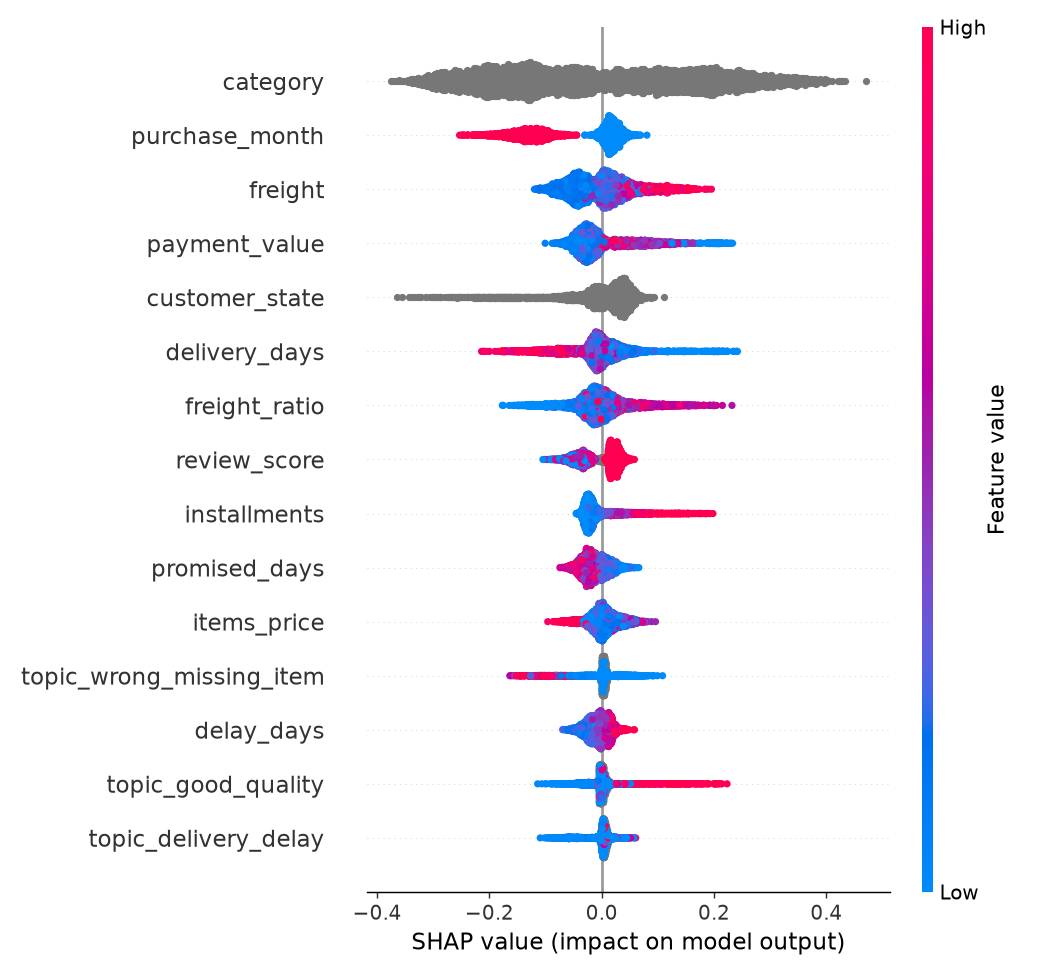
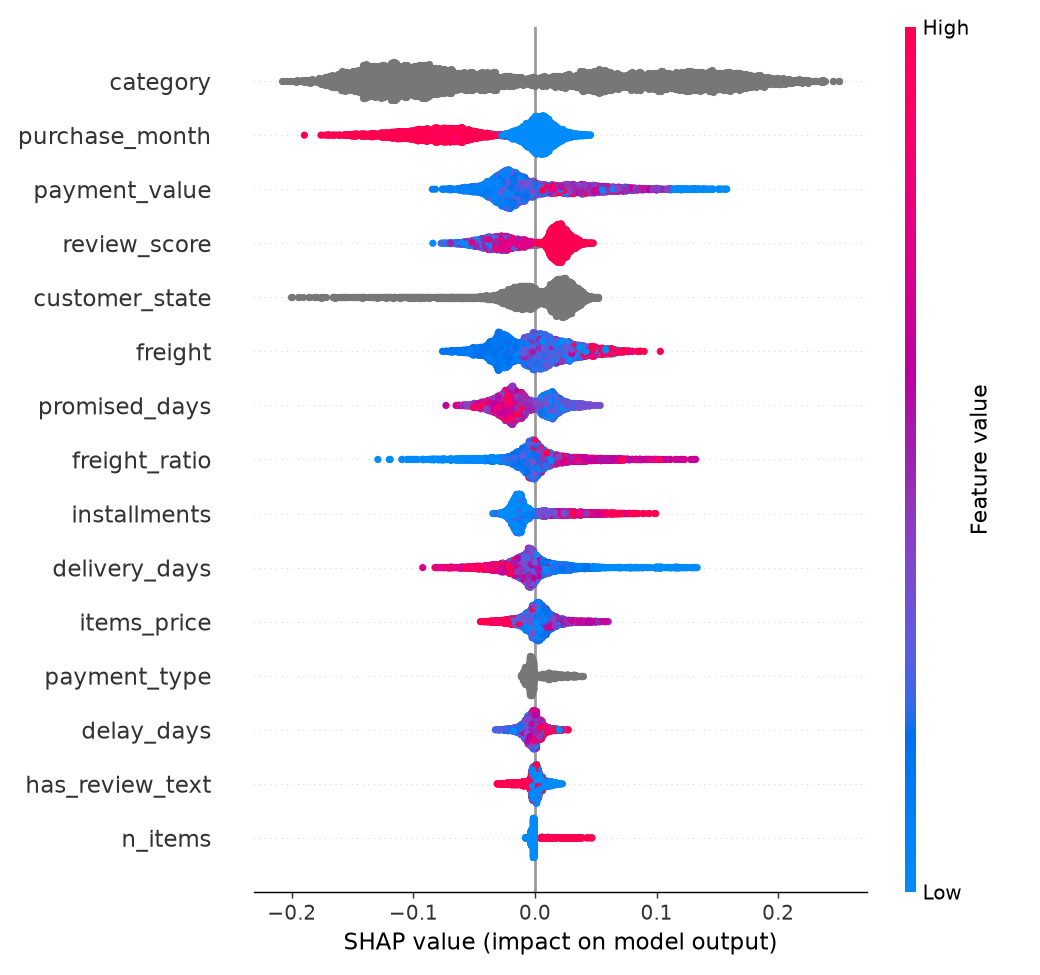
Final review: select best retention model, accurate labels and numbers, generic LLM naming
- Retention: keep the variant with the best test ROC-AUC as the final model (was the last one)
  and refresh SHAP, gains and metrics
- Describe gold and silver labels accurately as LLM-annotated, held out from training
- Dashboard: compute review counts, return rate, topic score and seller comparison from artifacts
  instead of hard-coded text
- LLM client: model id comes from LLM_MODEL; provider-neutral wording in docs and config
- Small cleanups (byte-order mark, blank lines, duplicate import)

diff --git a/app/dashboard.py b/app/dashboard.py
@@ -54,6 +54,8 @@ PLAIN_TOPIC = {
     "good_quality": "Good quality", "praise_recommend": "Happy, would recommend",
 }
 COMPLAINTS = ["wrong_missing_item", "defect_quality", "support_refund", "delivery_delay", "not_received"]
+RETURN_RATE = f"{eda.get('repurchase_rate_180d', 0) * 100:.1f} in 100"
+N_TEXT_REVIEWS = eda.get("n_text_reviews_clean", 0)
 
 T.brand()
 tabs = st.tabs(["Overview", "Customer groups", "Who comes back", "What customers say",
@@ -63,13 +65,13 @@ tabs = st.tabs(["Overview", "Customer groups", "Who comes back", "What customers
 with tabs[0]:
     one_time = eda.get("share_one_time_customers", 0.97)
     T.hero(f"{round(one_time * 100)} out of 100 customers buy only once.",
-           "We read 34,000 customer reviews and 96,000 orders from a Brazilian online marketplace "
+           f"We read {N_TEXT_REVIEWS / 1000:.0f},000 customer reviews and {eda.get('n_orders', 0) / 1000:.0f},000 orders from a Brazilian online marketplace "
            "to find out why, and who to help first.")
     c = st.columns(4)
     with c[0]:
         T.card("Customers", f"{eda.get('n_customers', 0):,}", "bought between 2016 and 2018")
     with c[1]:
-        T.card("Come back", f"{eda.get('repurchase_rate_180d', 0) * 100:.1f} in 100", "order again within 7 months", T.RED)
+        T.card("Come back", RETURN_RATE, "order again within 7 months", T.RED)
     with c[2]:
         T.card("Parcels late", f"{eda.get('late_delivery_rate', 0) * 100:.0f}%", "arrive after the promised date", T.AMBER)
     with c[3]:
@@ -102,9 +104,11 @@ with tabs[0]:
     with a[0]:
         T.action(1, f"Call {n_high:,} customers first", "The most upset ones: their order never came, nobody answered, or they spent a lot.")
     with a[1]:
-        T.action(2, f"Check {len(hot) if hot is not None else 0} sellers", "They get about twice as many complaints as an average seller.")
+        worst = float(hot["complaint_rate_vs_platform"].max()) if hot is not None else 0
+        T.action(2, f"Check {len(hot) if hot is not None else 0} sellers",
+                 f"Their customers complain more than average, up to {worst:.1f} times as often.")
     with a[2]:
-        T.action(3, "Plan for big sales", "On Black Friday 2017, 'my order never came' complaints tripled.")
+        T.action(3, "Plan for big sales", "On Black Friday 2017, 'my order never came' complaints nearly tripled.")
 
     with st.expander("Technical details"):
         coh = load_csv("cohort_retention.csv", index_col=0)
@@ -129,7 +133,7 @@ PLAIN_SEG = {
     "Loyal Repeat Buyers": "Loyal, buy again and again",
 }
 with tabs[1]:
-    T.hero("Our customers fall into 5 simple groups.",
+    T.hero(f"Our customers fall into {len(seg) if seg is not None else 5} simple groups.",
            "Grouped by when they bought, how much they spent, how often, and how their first order went.")
     if seg is not None:
         seg = seg.sort_values("size", ascending=False)
@@ -154,7 +158,7 @@ with tabs[1]:
 # =================================================================== Who comes back
 with tabs[2]:
     T.hero("Coming back is rare, and hard to predict.",
-           "Only about 1.5 in 100 customers order again. Our model still finds the likely ones faster than guessing.")
+           f"Only {RETURN_RATE} customers order again. Our model still finds the likely ones faster than guessing.")
     gains = load_json("gains.json")
     left, right = st.columns([1.4, 1])
     with left:
@@ -200,11 +204,15 @@ with tabs[2]:
 with tabs[3]:
     T.hero("We read every review automatically.",
            "A language model trained on Portuguese reviews sorts each one into topics, and warns us when a problem suddenly grows.")
+    nlp_cmp = load_csv("nlp_comparison.csv")
+    f1_model = float(nlp_cmp["topic_macro_f1"].iloc[-1]) if nlp_cmp is not None else 0
+    f1_rules = float(nlp_cmp["topic_macro_f1"].iloc[0]) if nlp_cmp is not None else 0
     c = st.columns(3)
     with c[0]:
-        T.card("Reviews read", "34,340", "in Portuguese, 2016–2018")
+        T.card("Reviews read", f"{N_TEXT_REVIEWS:,}", "in Portuguese, 2016–2018")
     with c[1]:
-        T.card("Reads them correctly", "83%", "vs 64% with simple keyword rules", T.TEAL)
+        T.card("Topic score", f"{f1_model * 100:.0f} / 100",
+               f"F1 on 250 held-out reviews; simple keyword rules: {f1_rules * 100:.0f}", T.TEAL)
     with c[2]:
         T.card("Problem warnings", f"{len(hist)}", "would have been sent, month by month", T.AMBER)
     st.write("")
@@ -244,9 +252,8 @@ with tabs[3]:
             st.caption("Reviews are in Portuguese. Key words: " + ", ".join(cl["keywords"][:6]))
 
     with st.expander("Technical details"):
-        nlp = load_csv("nlp_comparison.csv")
-        if nlp is not None:
-            st.dataframe(nlp.set_index("model"), width="stretch")
+        if nlp_cmp is not None:
+            st.dataframe(nlp_cmp.set_index("model"), width="stretch")
         st.dataframe(pd.DataFrame(hist), width="stretch", hide_index=True)
 
 # =================================================================== Sellers and cost
@@ -315,7 +322,7 @@ with tabs[5]:
         ev = load_csv("retrieval_eval.csv", index_col=0)
         if ev is not None:
             st.dataframe(ev, width="stretch")
-            st.caption("Hybrid search (BM25 + multilingual embeddings) on 16 queries with hand-labelled relevance.")
+            st.caption("Hybrid search (BM25 + multilingual embeddings) on 16 queries; relevance comes from the 250 gold reviews' topic labels.")
 
 # =================================================================== Who to help first
 with tabs[6]:

diff --git a/src/churnsight/llm/client.py b/src/churnsight/llm/client.py
@@ -1,8 +1,8 @@
 """Thin wrapper around the Anthropic Messages API.
 
-- LLM_PROVIDER=anthropic -> live calls via the official SDK (credentials: ANTHROPIC_API_KEY or an
-  `ant auth login` profile). LLM_PROVIDER=none (default) -> callers fall back to cached outputs,
-  so the dashboard and tests run without any key.
+- LLM_PROVIDER=anthropic -> live calls via the official SDK (needs ANTHROPIC_API_KEY and LLM_MODEL).
+  LLM_PROVIDER=none (default) -> callers fall back to cached outputs, so the dashboard and tests
+  run without any key.
 - Structured outputs (output_config.format json_schema) guarantee parseable JSON.
 - Server-side refusal fallback is enabled; refusals are surfaced as LLMRefusal.
 - The system prompt is marked for prompt caching (stable prefix, reused across many calls).
@@ -20,7 +20,6 @@ from churnsight.config import ROOT
 
 load_dotenv(ROOT / ".env")
 
-DEFAULT_MODEL = ""
 FALLBACK_BETA = "server-side-fallback-2026-07-01"
 
 
@@ -37,11 +36,11 @@ def provider() -> str:
 
 
 def model() -> str:
-    return os.getenv("LLM_MODEL", "").strip() or DEFAULT_MODEL
+    return os.getenv("LLM_MODEL", "").strip()
 
 
 def available() -> bool:
-    if provider() != "anthropic":
+    if provider() != "anthropic" or not model():
         return False
     try:
         import anthropic  # noqa: F401
@@ -56,7 +55,7 @@ _client = None
 def _get_client():
     global _client
     if not available():
-        raise LLMUnavailable("Set LLM_PROVIDER=anthropic (and credentials) to enable live LLM calls.")
+        raise LLMUnavailable("Set LLM_PROVIDER=anthropic, LLM_MODEL and ANTHROPIC_API_KEY to enable live LLM calls.")
     if _client is None:
         import anthropic
 

diff --git a/src/churnsight/rag/evaluate.py b/src/churnsight/rag/evaluate.py
@@ -1,6 +1,6 @@
 """Retrieval evaluation with exact relevance labels.
 
-The corpus is the 250 hand-labelled gold reviews, so for every query we know exactly which
+The corpus is the 250 gold reviews (LLM-annotated, held out from training), so for every query we know exactly which
 documents are relevant (those carrying the query's topic). Each topic gets one English and one
 Portuguese query, which also tests cross-lingual retrieval (English question -> Portuguese review).
 
@@ -95,7 +95,7 @@ def main() -> None:
     summary = summary.join(by_lang.add_prefix("ndcg@10_"))
     summary.to_csv(ARTIFACTS / "retrieval_eval.csv")
     (ARTIFACTS / "retrieval_eval.json").write_text(encoding="utf-8", data=
-        json.dumps({"corpus": "250 hand-labelled gold reviews", "n_queries": len(df) // len(configs),
+        json.dumps({"corpus": "250 gold reviews (LLM-annotated)", "n_queries": len(df) // len(configs),
                     "summary": summary.reset_index().to_dict(orient="records")}, indent=2)
     )
     print(summary.to_string())

diff --git a/src/churnsight/analytics/impact.py b/src/churnsight/analytics/impact.py
@@ -23,8 +23,6 @@ from churnsight.config import ARTIFACTS, PREDICTION_DAY, PROCESSED, RANDOM_SEED,
 from churnsight.nlp.weak_labels import TOPICS, topic_thresholds
 
 
-
-
 def _topic_flags(nlp: pd.DataFrame) -> pd.DataFrame:
     flags = nlp[["review_id"]].copy()
     th = topic_thresholds()
@@ -112,7 +110,7 @@ def trends_and_alerts(reviews: pd.DataFrame, flags: pd.DataFrame, lookback: int 
     monthly["n_reviews"] = r.groupby("order_month").size()
     complaints = ["delivery_delay", "not_received", "defect_quality", "wrong_missing_item", "support_refund"]
     alerts = detect_spikes(monthly[complaints], lookback, z_thresh)
-    # Backtest: what would the weekly report have flagged at the end of each past month?
+    # Backtest: what would a monthly check have flagged at the end of each past month?
     history = []
     for i in range(lookback + 1, len(monthly) + 1):
         history += detect_spikes(monthly[complaints].iloc[:i], lookback, z_thresh)

diff --git a/src/churnsight/analytics/churn.py b/src/churnsight/analytics/churn.py
@@ -154,11 +154,13 @@ def main() -> None:
     if nlp_cols:
         variants["C. + review NLP (topics, sentiment)"] = ORDER_FEATURES + REVIEW_SCORE_FEATURES + nlp_cols
 
-    rows, best = [], None
+    # Keep the variant with the best test ROC-AUC as the final model (scores, SHAP, gains).
+    rows, best, best_auc = [], None, -1.0
     for name, feats in variants.items():
         model, p, m = fit_eval(train, test, feats)
         rows.append({"variant": name, "n_features": len(feats), **m})
-        best = (name, model, feats, p)
+        if m["roc_auc"] > best_auc:
+            best, best_auc = (name, model, feats, p), m["roc_auc"]
         print(name, m)
     ablation = pd.DataFrame(rows)
     ablation.to_csv(ARTIFACTS / "churn_ablation.csv", index=False)

diff --git a/src/churnsight/llm/insights.py b/src/churnsight/llm/insights.py
@@ -6,7 +6,7 @@ Every quote is checked against the cluster's reviews (accent/case-insensitive su
 quotes that do not appear are dropped and counted as hallucinations.
 
 Output: artifacts/cluster_insights.json
-Run:  python -m churnsight.llm.insights     (requires LLM_PROVIDER=anthropic)
+Run:  python -m churnsight.llm.insights     (requires an LLM key, see .env.example)
 """
 
 from __future__ import annotations
@@ -83,5 +83,5 @@ def main() -> None:
 
 if __name__ == "__main__":
     if not client.available():
-        raise SystemExit("LLM disabled: set LLM_PROVIDER=anthropic in .env to generate cluster insights.")
+        raise SystemExit("LLM disabled: set LLM_PROVIDER, LLM_MODEL and ANTHROPIC_API_KEY in .env to generate cluster insights.")
     main()

diff --git a/src/churnsight/nlp/clusters.py b/src/churnsight/nlp/clusters.py
@@ -25,6 +25,7 @@ from sklearn.feature_extraction.text import CountVectorizer
 from umap import UMAP
 
 from churnsight.config import ARTIFACTS, PROCESSED, RANDOM_SEED
+from churnsight.nlp.weak_labels import TOPICS, topic_thresholds
 
 EMBED_MODEL = "sentence-transformers/paraphrase-multilingual-MiniLM-L12-v2"
 
@@ -128,10 +129,6 @@ PLAIN = {
 
 def label_clusters(min_share: float = 0.3) -> None:
     """Name each cluster by the topic most of its reviews carry (no LLM needed)."""
-    import pandas as pd
-
-    from churnsight.nlp.weak_labels import TOPICS, topic_thresholds
-
     path = ARTIFACTS / "complaint_clusters.json"
     meta = json.loads(path.read_text(encoding="utf-8"))
     th = topic_thresholds()

diff --git a/src/churnsight/nlp/train_classifier.py b/src/churnsight/nlp/train_classifier.py
@@ -1,9 +1,9 @@
-"""Fine-tune a Portuguese BERT (BERTimbau) for multi-label review topics + negativity.
+"""Fine-tune a Portuguese BERT (BERTimbau) for multi-label review topics + negativity.
 
 Labels
   weak    Portuguese keyword rules on ~30k reviews (noisy, high coverage)
   silver  600 LLM-assisted labels (data/labels/silver.csv): 480 for training, 120 held out
-  gold    250 hand-checked reviews (data/labels/gold.csv): evaluation ONLY
+  gold    250 LLM-annotated reviews, 50 per star rating (data/labels/gold.csv): evaluation ONLY
 "negative" is review_score <= 2 everywhere.
 
 Two-stage training

diff --git a/src/churnsight/nlp/weak_labels.py b/src/churnsight/nlp/weak_labels.py
@@ -2,7 +2,7 @@
 
 These rules are fast and transparent but brittle (they miss paraphrases and negations).
 They produce *noisy training labels*; the fine-tuned transformer then learns to generalise
-beyond the exact keywords. Both are evaluated on a separate hand-checked gold set.
+beyond the exact keywords. Both are evaluated on a separate, held-out gold set.
 
 Run:  python -m churnsight.nlp.weak_labels
 """

diff --git a/src/churnsight/llm/queue.py b/src/churnsight/llm/queue.py
@@ -18,8 +18,6 @@ from churnsight.llm.actions import Case, prioritise, suggest
 from churnsight.nlp.weak_labels import TOPICS, topic_thresholds
 
 
-
-
 def build_queue() -> pd.DataFrame:
     customers = pd.read_parquet(PROCESSED / "customers.parquet")
     reviews = pd.read_parquet(PROCESSED / "reviews.parquet")[["review_id", "review_text", "order_month", "category"]]

diff --git a/README.md b/README.md
@@ -16,11 +16,11 @@ Built on the public [Olist Brazilian E-commerce dataset](https://www.kaggle.com/
 |---|---|
 | Data | 96,470 delivered orders · 93,350 customers · 34,340 clean text reviews (Portuguese) |
 | Retention reality | **97% of customers buy once**; only **1.55%** return between day 30 and day 210 |
-| Review topic classifier (gold set, 250 reviews) | Topic macro-F1 **0.835** (fine-tuned BERTimbau, two-stage) vs **0.636** keyword rules and **0.666** TF-IDF |
+| Review topic classifier (held-out gold set, 250 reviews) | Topic macro-F1 **0.835** (fine-tuned BERTimbau, two-stage) vs **0.636** keyword rules and **0.666** TF-IDF |
 | Retrieval (16 EN + PT queries, exact relevance) | Hybrid nDCG@10 **0.79**; BM25 alone fails on English questions (**0.09**) |
 | Complaint discovery | **28 recurring complaint clusters** from 8,860 1-2★ reviews (2% unassigned) |
 | Rising-issue alerts (backtest) | Flags **Nov 2017** ("order not received" +194%, z = 14.5) and **Feb-Mar 2018**, the exact months the late-delivery rate jumped from 5% to 14-21% in order data the NLP never saw |
-| Retention model | ROC-AUC **0.564**, **1.7× lift** in the top 10% (time-based split) |
+| Retention model | ROC-AUC **0.564**, **1.6× lift** in the top 10%; contacting the top 20% finds 24% of returners (time-based split) |
 | Survival | A 1-2★ first review means a **14% lower return hazard** (Cox HR 0.86, p = 0.016) |
 
 ### Review classifier: what moved the needle
@@ -67,7 +67,7 @@ ChurnSight joins them per customer, so it can answer the question a business act
 | 2. Segmentation | 5 actionable customer segments | RFM + experience features, KMeans, silhouette vs usefulness trade-off |
 | 3. Retention model | Who comes back after the first order, and why | Point-in-time features, LightGBM, **SHAP**, Kaplan-Meier + **Cox** survival |
 | 4. Issue impact | Repurchase gap and revenue at stake per complaint topic; seller hotspots; rising-issue alerts | Bootstrap CIs, z-score spike detection |
-| 5. Ask ChurnSight (RAG) | Ask questions in English about Portuguese reviews, answered with verified citations | Hybrid retrieval (BM25 + dense, RRF), cross-encoder rerank, metadata filters, **LLM** |
+| 5. Ask ChurnSight (RAG) | Ask questions in English about Portuguese reviews, answered with verified citations | Hybrid retrieval (BM25 + dense, RRF), optional cross-encoder rerank, metadata filters, **LLM** answer with citation checks |
 | 6. Action Center | Prioritised queue of unhappy customers with a policy-grounded reply draft | Rule engine for priority/vouchers, policy RAG, LLM structured output, guardrails |
 
 Delivered as a **Streamlit dashboard** and a **FastAPI** service.
@@ -97,11 +97,11 @@ orders / customers / reviews (parquet)
 
 - **Point-in-time features (no leakage).** Every customer is scored 30 days after their first purchase, using only what was known by then (delivery status, a review written by day 30). The label is "returned between day 30 and day 210". An earlier version masked reviews written *after* a second purchase; that masking only ever hit returning customers, so "review missing" leaked the label. The fixed cut-off applies to everyone equally.
 - **Same-day orders are not retention.** About 30% of raw "second orders" were placed the same day as the first (basket splits). A return needs to be at least 1 day later.
-- **Weak supervision instead of hand-labelling 30k reviews.** Portuguese keyword rules label the training set; a fine-tuned transformer learns to generalise beyond the keywords. Everything is evaluated on a separate, hand-labelled gold set of 250 reviews (50 per star rating) that is never used for training.
+- **Weak supervision instead of hand-labelling 30k reviews.** Portuguese keyword rules label the training set; a fine-tuned transformer learns to generalise beyond the keywords. Everything is evaluated on a separate gold set of 250 reviews (50 per star rating), annotated with an LLM against a written guideline and never used for training.
 - **Usefulness over a single metric.** Silhouette prefers k=3 segments, but that puts ~80% of customers in one group. We pick the best k ≥ 5 and say so.
 - **Rules decide money, the LLM writes words.** In the Action Center the voucher amount comes from a rule engine that mirrors the goodwill policy. The LLM only drafts the reply. Guardrails reject drafts that change the amount, cite policies that were not retrieved, mention unapproved R$ amounts, or skip escalation on legal/safety language.
 - **Exact search over an ANN index.** ~34k × 384-dim vectors: brute-force cosine takes milliseconds, so a vector database would add moving parts without benefit at this scale.
-- **Works without an API key.** With `LLM_PROVIDER=none` every LLM feature falls back to retrieval-only or cached outputs, so the dashboard, API and tests run anywhere.
+- **Works without an API key.** With `LLM_PROVIDER=none` every LLM feature falls back to retrieval-only or rule-based output, so the dashboard, API and tests run anywhere. The live demo runs this way.
 
 ## Run it
 
@@ -115,7 +115,7 @@ pip install -r requirements-dev.txt && pip install -e .
 python -m churnsight.pipeline
 
 # 3. Optional: LLM-powered features
-copy .env.example .env      # set LLM_PROVIDER=anthropic and ANTHROPIC_API_KEY
+copy .env.example .env      # set LLM_PROVIDER=anthropic, LLM_MODEL and ANTHROPIC_API_KEY
 python -m churnsight.llm.insights          # name complaint clusters
 python -m churnsight.llm.queue --draft 10  # pre-draft demo replies
 
@@ -144,7 +144,7 @@ src/churnsight/
   llm/                     LLM client, cluster insights, Action Center, outreach queue
 app/                       Streamlit dashboard, FastAPI
 docs/policies/             synthetic policy knowledge base for a fictional marketplace
-data/labels/               gold annotations (hand-labelled evaluation set)
+data/labels/               gold (evaluation) and silver (training) annotations
 artifacts/                 metrics, tables and figures produced by the pipeline
 tests/                     unit tests for rules, guardrails, spike detection
 ```
@@ -153,4 +153,4 @@ tests/                     unit tests for rules, guardrails, spike detection
 
 - Olist Brazilian E-commerce Public Dataset by Olist, [CC BY-NC-SA 4.0](https://creativecommons.org/licenses/by-nc-sa/4.0/). The slim bundle in `data/app/` is derived from it and shared under the same licence, for non-commercial use.
 - `docs/policies/` describes **Aurora Marketplace, a fictional company** invented for this demo. It is not Olist's policy.
-- Gold labels in `data/labels/gold_annotations.txt` were produced with an LLM reading each review, single pass; treat them as a careful but unaudited reference.
+- Gold labels in `data/labels/gold_annotations.txt` were produced with an LLM reading each review against a written guideline, single pass; treat them as a careful but unaudited reference.
